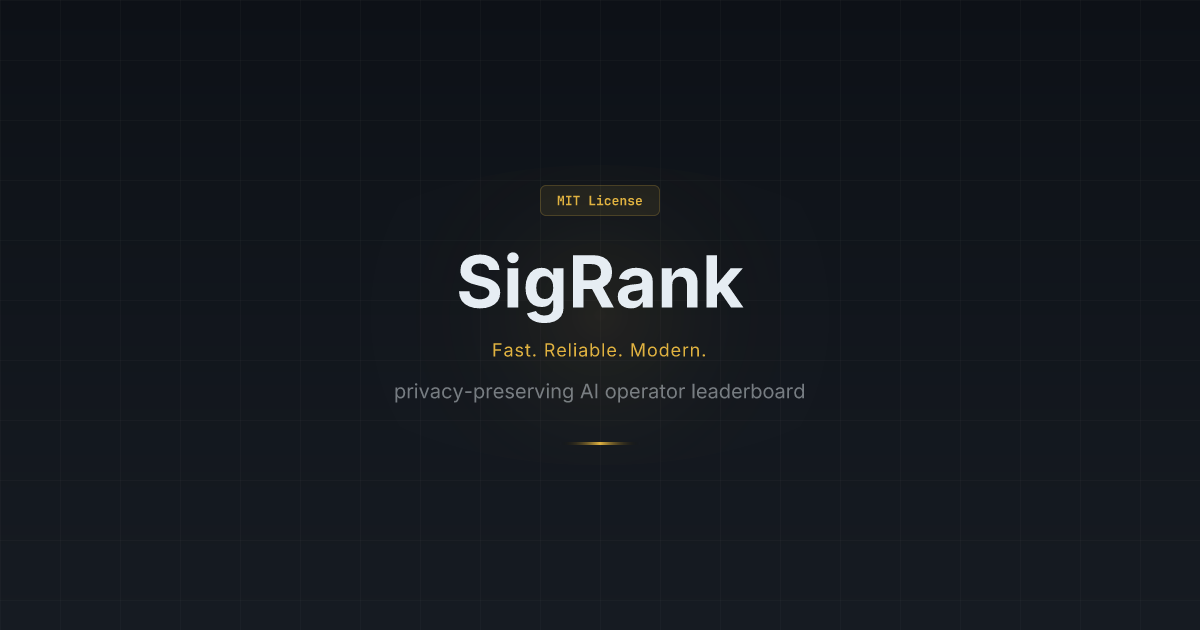
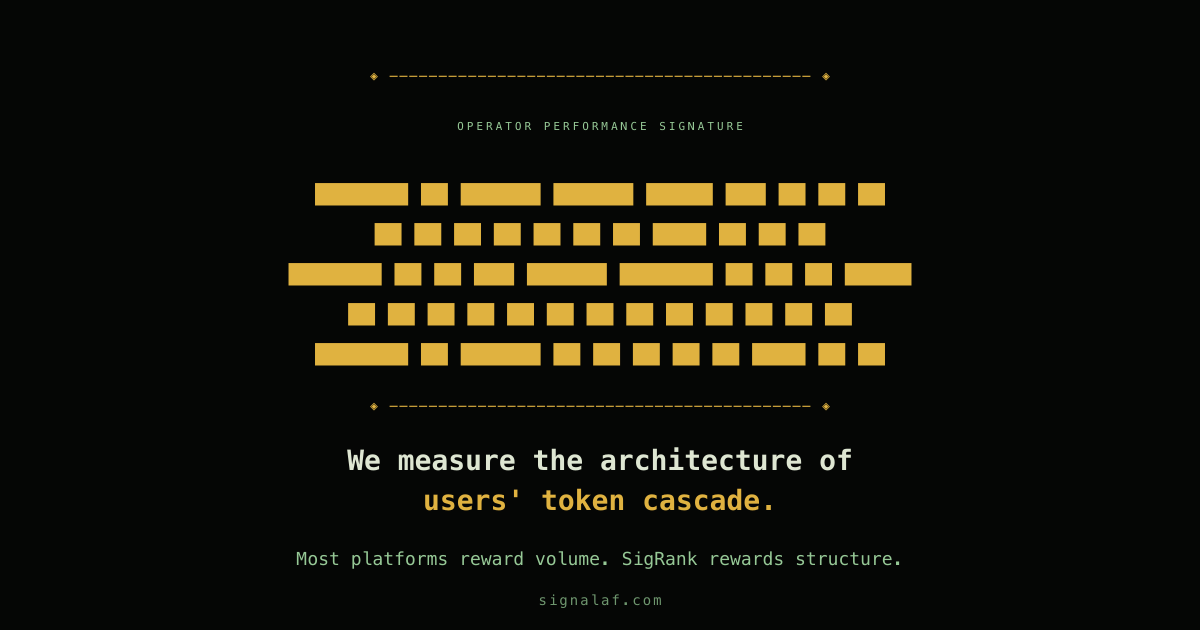
docs(readme): use the actual TUI terminal art + brand voice
Replace the generic gradient banner with the real SPLASH_ART block-letter
SIGRANK from the TUI (sigrank-mcp/tui.mjs). Use the actual landing page
language: "We measure the architecture of users' token cascade" + "Most
platforms reward volume. SigRank rewards structure." + "Identifying
Burners, Builders, and 10×ers." + "Fair warning: the blade cuts both ways."

The ◈ ─── ◈ rule (SPLASH_RULE) frames the wordmark, matching the TUI splash.

Also: regenerate the OG social preview as a terminal-styled image
(near-black bg, gold block letters, green tagline) instead of the
generic ogcops template.

Generated with [Devin](https://devin.ai)

diff --git a/README.md b/README.md
@@ -1,20 +1,28 @@
 <div align="center">
 
-<img src="https://ghrb.waren.build/banner?header=SigRank&subheader=privacy-preserving%20AI%20operator%20leaderboard&bg=0a0a0a-1a1a1a&color=e0b240&subheadercolor=96c896" alt="SigRank" width="640">
+```
+ ███████ ██  ██████  ██████   █████  ███    ██ ██   ██
+ ██      ██ ██       ██   ██ ██   ██ ████   ██ ██  ██
+ ███████ ██ ██   ███ ██████  ███████ ██ ██  ██ █████
+      ██ ██ ██    ██ ██   ██ ██   ██ ██  ██ ██ ██  ██
+ ███████ ██  ██████  ██   ██ ██   ██ ██   ████ ██   ██
+```
+
+◈ ─────────────────────────────────────────── ◈
 
 # SigRank
 
-**A privacy-preserving leaderboard that scores AI operators on token cascade efficiency.**
+**We measure the architecture of users' token cascade.**
 
-The rank metric: **Υ = (cache_read × output) / input²** — the yield cascade.
+Most platforms reward volume. SigRank rewards structure.
 
+[![CI](https://github.com/SunrisesIllNeverSee/sigrank-app/actions/workflows/ci.yml/badge.svg?branch=main)](https://github.com/SunrisesIllNeverSee/sigrank-app/actions/workflows/ci.yml)
 [![live](https://img.shields.io/badge/live-signalaf.com-gold.svg?style=flat-square)](https://signalaf.com)
 [![vercel](https://img.shields.io/badge/deploy-Vercel-black.svg?style=flat-square)](https://vercel.com)
 [![next.js](https://img.shields.io/badge/Next.js-15-black.svg?style=flat-square)](https://nextjs.org)
 [![react](https://img.shields.io/badge/React-19-blue.svg?style=flat-square)](https://react.dev)
 [![typescript](https://img.shields.io/badge/TypeScript-strict-blue.svg?style=flat-square)](https://www.typescriptlang.org)
 [![license](https://img.shields.io/badge/license-MIT-green.svg?style=flat-square)](./LICENSE)
-[![CI](https://github.com/SunrisesIllNeverSee/sigrank-app/actions/workflows/ci.yml/badge.svg?branch=main)](https://github.com/SunrisesIllNeverSee/sigrank-app/actions/workflows/ci.yml)
 [![supabase](https://img.shields.io/badge/db-Supabase-green.svg?style=flat-square)](https://supabase.com)
 [![stripe](https://img.shields.io/badge/billing-Stripe-purple.svg?style=flat-square)](https://stripe.com)
 
@@ -22,10 +30,15 @@ The rank metric: **Υ = (cache_read × output) / input²** — the yield cascade
 
 ---
 
-A BlitzStars-style leaderboard for AI operators. Scores 11 canonical token-telemetry
-metrics across 15+ platforms (Claude, Codex, Amp, Gemini, and more). Free tier + Pro tier
-behind Stripe. Anonymous + claimable operator entries. Four selectable themes (Carbon,
-Paper, Railway, Terminal).
+> **Fair warning: the blade cuts both ways.**
+
+A privacy-preserving leaderboard that scores AI operators on token cascade efficiency.
+The rank metric: **Υ = (cache_read × output) / input²** — the yield cascade.
+
+We measure the architecture of users' token cascade to identify patterns, margins, and
+operator signature — revealing whether signal is compounded or tokens burned.
+
+**Identifying Burners, Builders, and 10×ers.**
 
 ## Stack
 
